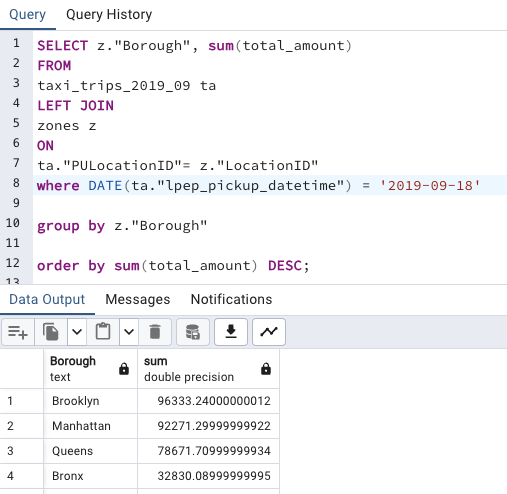
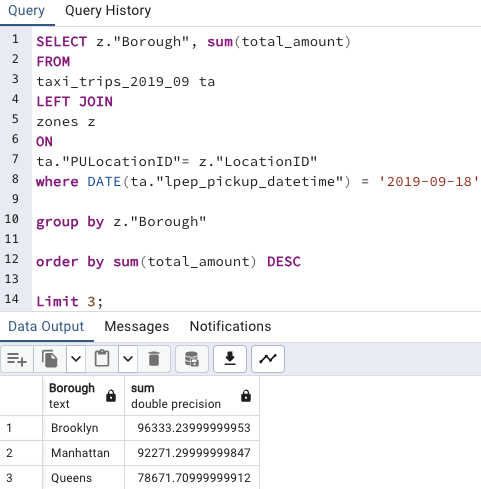
Update Readme.md

Changed region(s): [[0.0, 0.3988, 1.0, 1.0], [0.0, 0.0, 0.9979, 0.3988]]

diff --git a/Homework_1/Readme.md b/Homework_1/Readme.md
@@ -2,37 +2,73 @@
 
 You can find here my answers for the homework_1 (Dezoomcamp)
 
-## Question 1 :
-
-<p align="center">
-![logo](./images/Output_docker_run.png "docker run --help")
-</p>
+## Question 1 : Which tag has the following text? - Automatically remove the container when it exits
 
 
+<img src="images/Output_docker_run.png"
+alt="docker run --help" style="width:100%; border:0;">
 
-## Question 5: 
+## Question 2: Run docker with the python:3.9 image in an interactive mode and the entrypoint of bash. Now check the python modules that are installed ( use `pip list` ). What is version of the package wheel ?
 
+<img src="images/Output_python_wheel.png"
+alt="wheel version" style="width:100%; border:0;">
 
+## Question 3: How many taxi trips were totally made on September 18th 2019?
+
+After ingesting both data through the following code 
 
 ```
-SELECT z."Borough", sum(total_amount)
-FROM 
-taxi_trips_2019_09 ta 
-LEFT JOIN 
-zones z
-ON
-ta."PULocationID"= z."LocationID"
-where DATE(ta."lpep_pickup_datetime") = '2019-09-18'
+URL="https://github.com/DataTalksClub/nyc-tlc-data/releases/download/green/green_tripdata_2019-09.csv.gz"
 
-group by z."Borough"
+python scripts/ingest_param_data.py \
+  --user=root \
+  --password=root \
+  --host=localhost \
+  --port=5432 \
+  --db=ny_taxi \
+  --table_name=taxi_trips_2019_09 \
+  --url=${URL}  
 
-order by sum(total_amount) DESC;
+
+URL="https://s3.amazonaws.com/nyc-tlc/misc/taxi+_zone_lookup.csv"
+
+python scipts/ingest_param_data.py \
+  --user=root \
+  --password=root \
+  --host=localhost \
+  --port=5432 \
+  --db=ny_taxi \
+  --table_name=zones \
+  --url=${URL}   
 ```
+We get the following output with the mentionned Sql code 
+
+<img src="images/Output_question_3.png"
+alt="docker run --help" style="width:100%; border:0;">
+
+## Question 4: Which was the pick up day with the largest trip distance Use the pick up time for your calculations.
+We get the following output with the mentionned Sql code 
+
+<img src="images/Output_question_4.png"
+alt="docker run --help" style="width:100%; border:0;">
+
+## Question 5: Consider lpep_pickup_datetime in '2019-09-18' and ignoring Borough has Unknown. Which were the 3 pick up Boroughs that had a sum of total_amount superior to 50000?
+
+We get the following output with the mentionned Sql code 
+
+<img src="images/Output_question_5.png"
+alt="docker run --help" style="width:100%; border:0;">
+
+## Question 6. For the passengers picked up in September 2019 in the zone name Astoria which was the drop off zone that had the largest tip? We want the name of the zone, not the id.
+
+We get the following output with the mentionned Sql code 
+
+<img src="images/Output_question_6.png"
+alt="docker run --help" style="width:100%; border:0;">
 
 
 ## Question 7
-
-Output of `terraform apply`:
+After doing all the necessary configurations, the output of `terraform apply` is:
 ```
 Terraform used the selected providers to generate the following execution plan.
 Resource actions are indicated with the following symbols:
